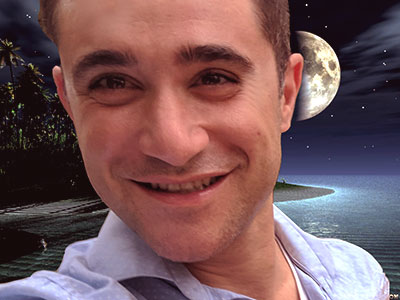
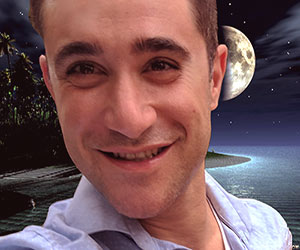
up pic

diff --git a/about.html b/about.html
@@ -63,7 +63,7 @@
             <p> Team Lead
         </div>
         <div class='about'>
-            <img src="img/mike3.gif" class="aboutpic"alt ='MikeMitchellPic'>
+            <img src="img/mike2.jpg" class="aboutpic"alt ='MikeMitchellPic'>
             <h1>Mike Mitchell</h1>
             <p> User Interface 
         </div>
